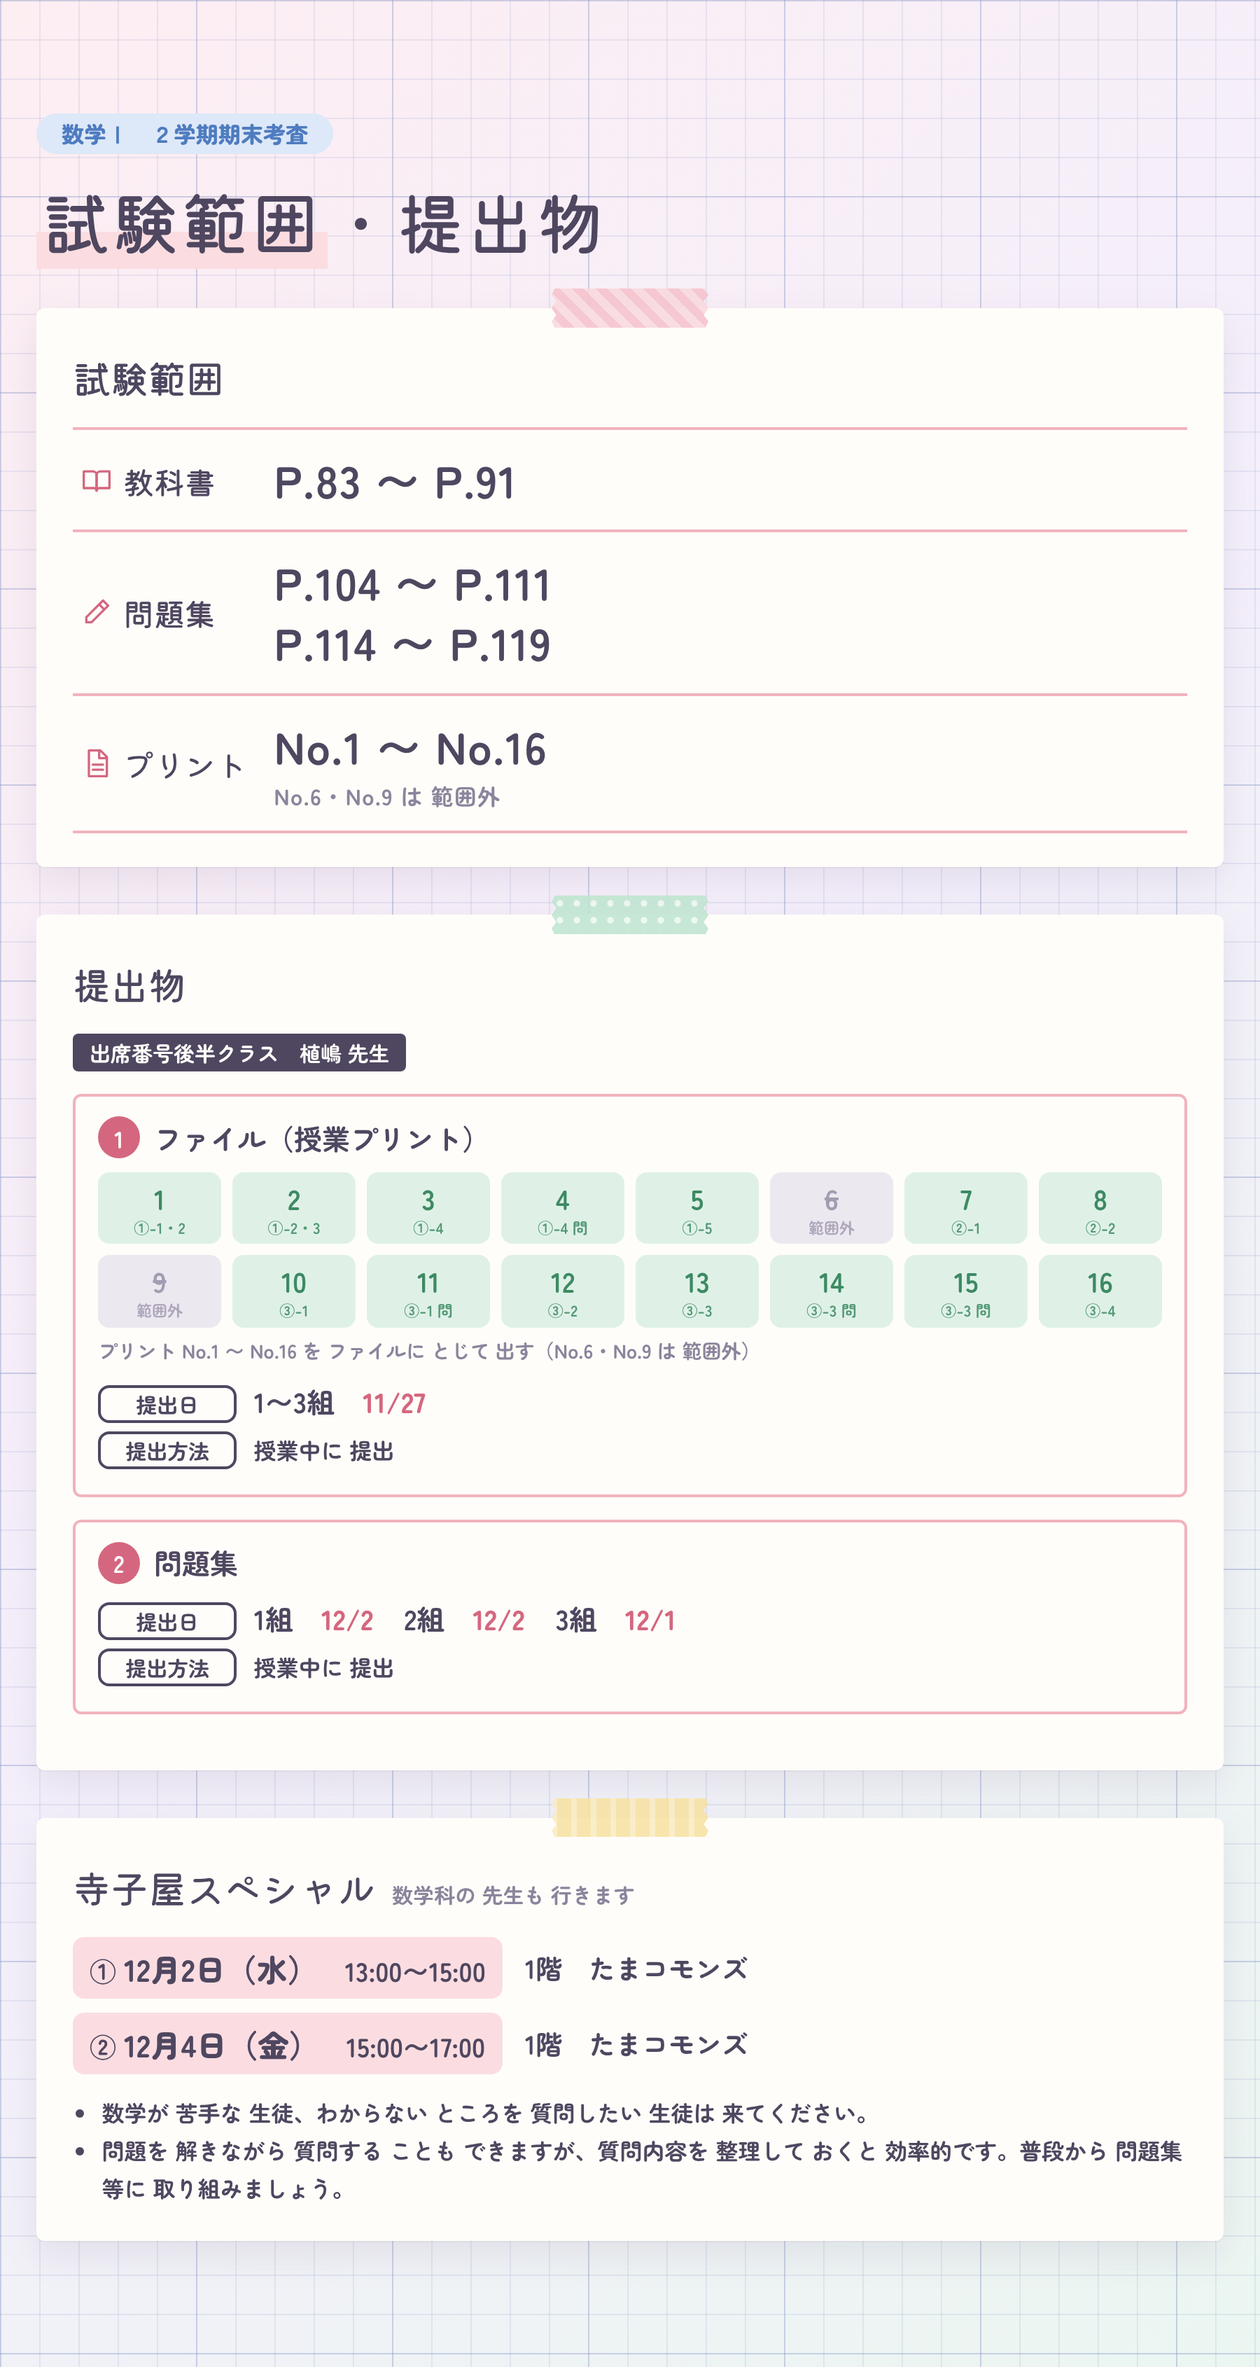
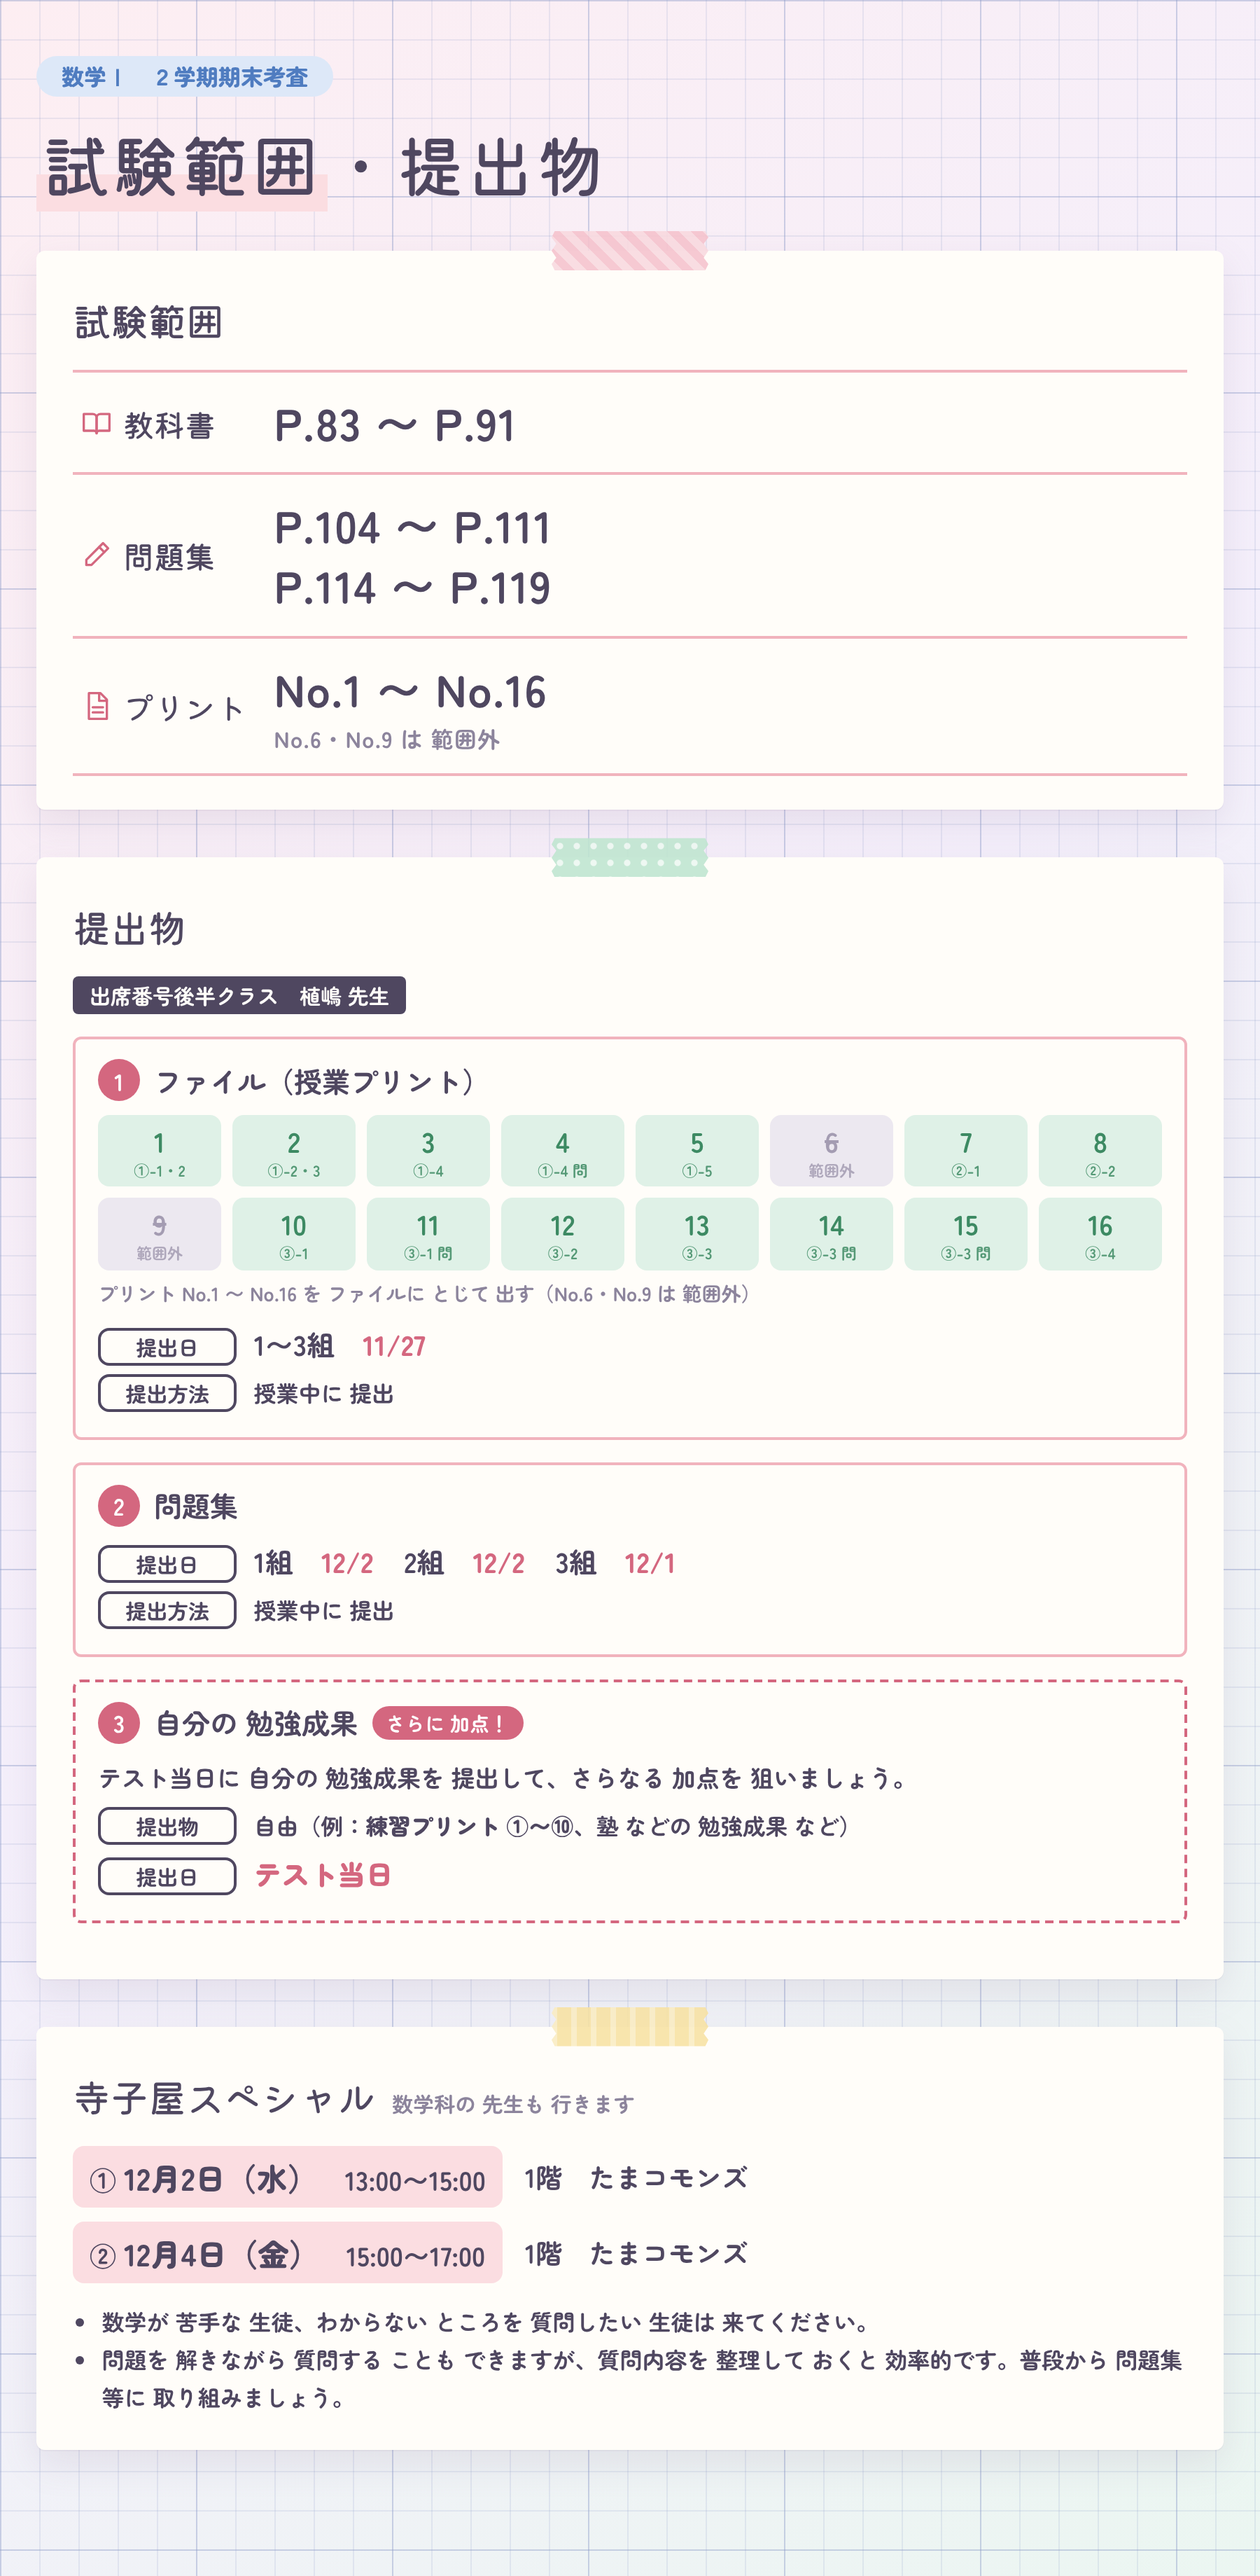
試験範囲：提出物③ 自分の 勉強成果（テスト当日・加点）を 追加
Claude-Session: https://claude.ai/code/session_01PvuaGGHNHRa2jZ8gx6JvVi

Changed region(s): [[0.0311, 0.1553, 0.9644, 0.963], [0.0311, 0.0, 0.56, 0.2796]]

diff --git a/期末考査/試験範囲.html b/期末考査/試験範囲.html
@@ -4,7 +4,7 @@
 <meta charset="utf-8">
 <meta name="viewport" content="width=device-width, initial-scale=1">
 <title>試験範囲・提出物</title>
-<!-- ２学期期末考査 数学Ⅰ の 試験範囲・提出物・寺子屋スペシャル（先生の 配布物 04_2学期期末考査…docx を HTML に 書き直し、2026-11-17）。
+<!-- ２学期期末考査 数学Ⅰ の 試験範囲・提出物・寺子屋スペシャル（先生の 配布物 04_2学期期末考査…docx を HTML に 書き直し、2026-11-17。11/27 に 提出物 ③ 自分の 勉強成果（テスト当日・加点）を 追加）。
      build しない 1枚の HTML。直すときは この ファイルを 直接。PNG（試験範囲.png）は _作成用/skill/tools/shot.sh か Playwright で 撮り直す -->
 <link rel="preconnect" href="https://fonts.googleapis.com">
 <link rel="preconnect" href="https://fonts.gstatic.com" crossorigin>
@@ -82,6 +82,12 @@ h2 small{font-family:"Zen Maru Gothic",sans-serif;font-size:15px;color:var(--mut
 .tag{display:inline-block;border:2px solid var(--ink);border-radius:8px;padding:1px 10px;font-size:15px;text-align:center}
 .days{display:flex;flex-wrap:wrap;gap:6px 22px;font-size:20px}
 .days b{color:var(--accent)}
+/* 自由提出（加点） */
+.sub.free{border-style:dashed;border-color:var(--accent)}
+.sub.free h3{flex-wrap:wrap;row-gap:6px}
+.sub.free h3 .t,.sub.free .plus{white-space:nowrap;flex:none}
+.sub.free .plus{white-space:nowrap;font-size:14px;font-weight:700;color:#fff;background:var(--accent);border-radius:999px;padding:2px 10px}
+.sub.free .lead{margin:0 0 8px;font-size:17px;line-height:1.6}
 /* 寺子屋 */
 .tera{display:grid;grid-template-columns:auto 1fr;gap:10px 16px;align-items:center;font-size:19px;margin:0 0 14px}
 .tera .d{background:var(--r-bg);border-radius:8px;padding:6px 12px;white-space:nowrap}
@@ -141,6 +147,14 @@ ul{margin:6px 0 0;padding-left:1.3em;font-size:16px;line-height:1.7;color:var(--
       <h3><span class="n">2</span>問題集</h3>
       <div class="row"><span class="tag">提出日</span><div class="days"><span>1組　<b>12/2</b></span><span>2組　<b>12/2</b></span><span>3組　<b>12/1</b></span></div></div>
       <div class="row"><span class="tag">提出方法</span><div>授業中に 提出</div></div>
+    </div>
+
+    <!-- 2026-11-27 先生の 指示：テスト当日に 勉強成果を 自由に 提出して 加点 -->
+    <div class="sub free">
+      <h3><span class="n">3</span><span class="t">自分の 勉強成果</span><span class="plus">さらに 加点！</span></h3>
+      <p class="lead">テスト当日に 自分の 勉強成果を 提出して、さらなる 加点を 狙いましょう。</p>
+      <div class="row"><span class="tag">提出物</span><div>自由（例：<b>練習プリント ①〜⑩</b>、塾 などの 勉強成果 など）</div></div>
+      <div class="row"><span class="tag">提出日</span><div class="days"><span><b>テスト当日</b></span></div></div>
     </div>
   </section>
 

diff --git a/期末考査/目次.html b/期末考査/目次.html
@@ -122,10 +122,10 @@ const ITEMS = [
   "desc": "期末考査 対策プリントの 解説"
  },
  {
-  "href": "試験範囲.html?v=1.0",
+  "href": "試験範囲.html?v=1.1",
   "no": "お知らせ",
   "title": "試験範囲・提出物",
-  "desc": "教科書・問題集の ページ、提出物（ファイル・問題集）の 提出日、寺子屋スペシャル",
+  "desc": "教科書・問題集の ページ、提出物（ファイル・問題集・自分の 勉強成果）の 提出日、寺子屋スペシャル",
   "cls": "info"
  }
 ];

diff --git a/_作成用/menus.py b/_作成用/menus.py
@@ -51,8 +51,8 @@ make('期末考査/目次.html', '２学期期末考査 目次', '../index.html'
   {'href':'taisaku/目次.html', 'no':'考査対策', 'title':'期末考査対策プリントの 解説',
    'desc':'期末考査 対策プリントの 解説'},
   # お知らせの カード（教材と ちがう デザイン＝cls:'info'、いちばん 後ろ。先生の 指示 11/17）
-  {'href':'試験範囲.html?v=1.0', 'no':'お知らせ', 'title':'試験範囲・提出物',
-   'desc':'教科書・問題集の ページ、提出物（ファイル・問題集）の 提出日、寺子屋スペシャル', 'cls':'info'},   # 2026-11-17（build しない 1枚の HTML、試験範囲.png も）
+  {'href':'試験範囲.html?v=1.1', 'no':'お知らせ', 'title':'試験範囲・提出物',
+   'desc':'教科書・問題集の ページ、提出物（ファイル・問題集・自分の 勉強成果）の 提出日、寺子屋スペシャル', 'cls':'info'},   # 2026-11-17（build しない 1枚の HTML、試験範囲.png も）
 ])
 
 # 授業プリント（スライドができたら ここに足す）

diff --git a/CLAUDE.md b/CLAUDE.md
@@ -11,7 +11,7 @@
 - `index.html`：トップページ（考査ごとのカード）
 - `2gakki-chukan/`：２学期中間考査の解説。**名前・場所を絶対に変えない**（QRコードを配布済み）
 - `期末考査/`：２学期期末考査。`jugyo/`＝授業プリントの解説、`taisaku/`＝期末考査対策プリントの解説、`kaitou/`＝プリントの 解答（目次は `kaitou/目次.html`、プリントごとの 解答を カードで 足していく。プリントの ページを そのまま 背景に して、答えを 同じ 場所に 重ねる。答えは 枠ごとに かくせる。2026-10-26 から 期末考査の 目次に リンク）、`renshu/`＝練習プリントの 解答・ヒント（`x軸との共有点_ヒント.html`。2026-11-20 から 各問 先に「答えを見る」、その 下に ヒント。非公開リポジトリの `数学Ⅰ/練習プリント/make_renshu.js` が ここに 書く。2026-11-02、まだ 目次には リンク して いない。2026-11-16：練習プリント ⑨ 2次不等式（③-1 の 類題）の 解答 `futoushiki_kaitou.html` も。非公開の `make_futoushiki.js` が 書く。2026-11-20：練習プリント ⑪ 2次方程式 x²＋bx＋c＝0 50問 の 解答 `houteishiki_kaitou.html`（非公開の `make_houteishiki.js` が 書く。11/24 に ⑩ → ⑪）。2026-11-24：練習プリント ⑩ 期末考査対策 の 解答 `taisaku_kaitou.html`（非公開の `make_taisaku10.js` が 書く）。プリントの QR で 開く ので 名前・場所を 変えない）
-- `期末考査/試験範囲.html`：２学期期末考査の 試験範囲・提出物・寺子屋スペシャル（2026-11-17、先生の 配布物の docx を HTML に 書き直した 1ページ。build しない、直す ときは この ファイルを 直接。期末考査の 目次の いちばん 後ろの「お知らせ」カード（教材と ちがう デザイン：ピン・点線の ふち・罫線の 紙、menus.py の cls:"info" と INFO_CSS、11/17 先生の 指示）、版は ?v=。PNG は `期末考査/試験範囲.png`（幅 900・2倍、「← 期末考査へ」を 消して 撮る）。提出物① ファイル＝授業プリント No.1〜16、No.6・No.9 は 範囲外）
+- `期末考査/試験範囲.html`：２学期期末考査の 試験範囲・提出物・寺子屋スペシャル（2026-11-17、先生の 配布物の docx を HTML に 書き直した 1ページ。build しない、直す ときは この ファイルを 直接。期末考査の 目次の いちばん 後ろの「お知らせ」カード（教材と ちがう デザイン：ピン・点線の ふち・罫線の 紙、menus.py の cls:"info" と INFO_CSS、11/17 先生の 指示）、版は ?v=。PNG は `期末考査/試験範囲.png`（幅 900・2倍、「← 期末考査へ」を 消して 撮る）。提出物① ファイル＝授業プリント No.1〜16、No.6・No.9 は 範囲外。11/27：提出物③ 自分の 勉強成果（テスト当日、自由提出で 加点。例：練習プリント ①〜⑩・塾 などの 勉強成果）を 追加、?v=1.1）
 - `mathC/`：**数学C（別科目）**。数学Ⅰ とは 完全に 分ける（リンクも しない・部品も 共有しない）。作業するときは `mathC/CLAUDE.md` を 読む
 - `math3/`：**数学Ⅲ（別科目）**。数学Ⅰ・数学C とは 完全に 分ける（リンクも しない・部品も 共有しない）。作業するときは `math3/CLAUDE.md` を 読む
 - `_作成用/`：スライドを作るファイル（GitHub に置く。公開リポジトリなので 誰でも 見られる）
